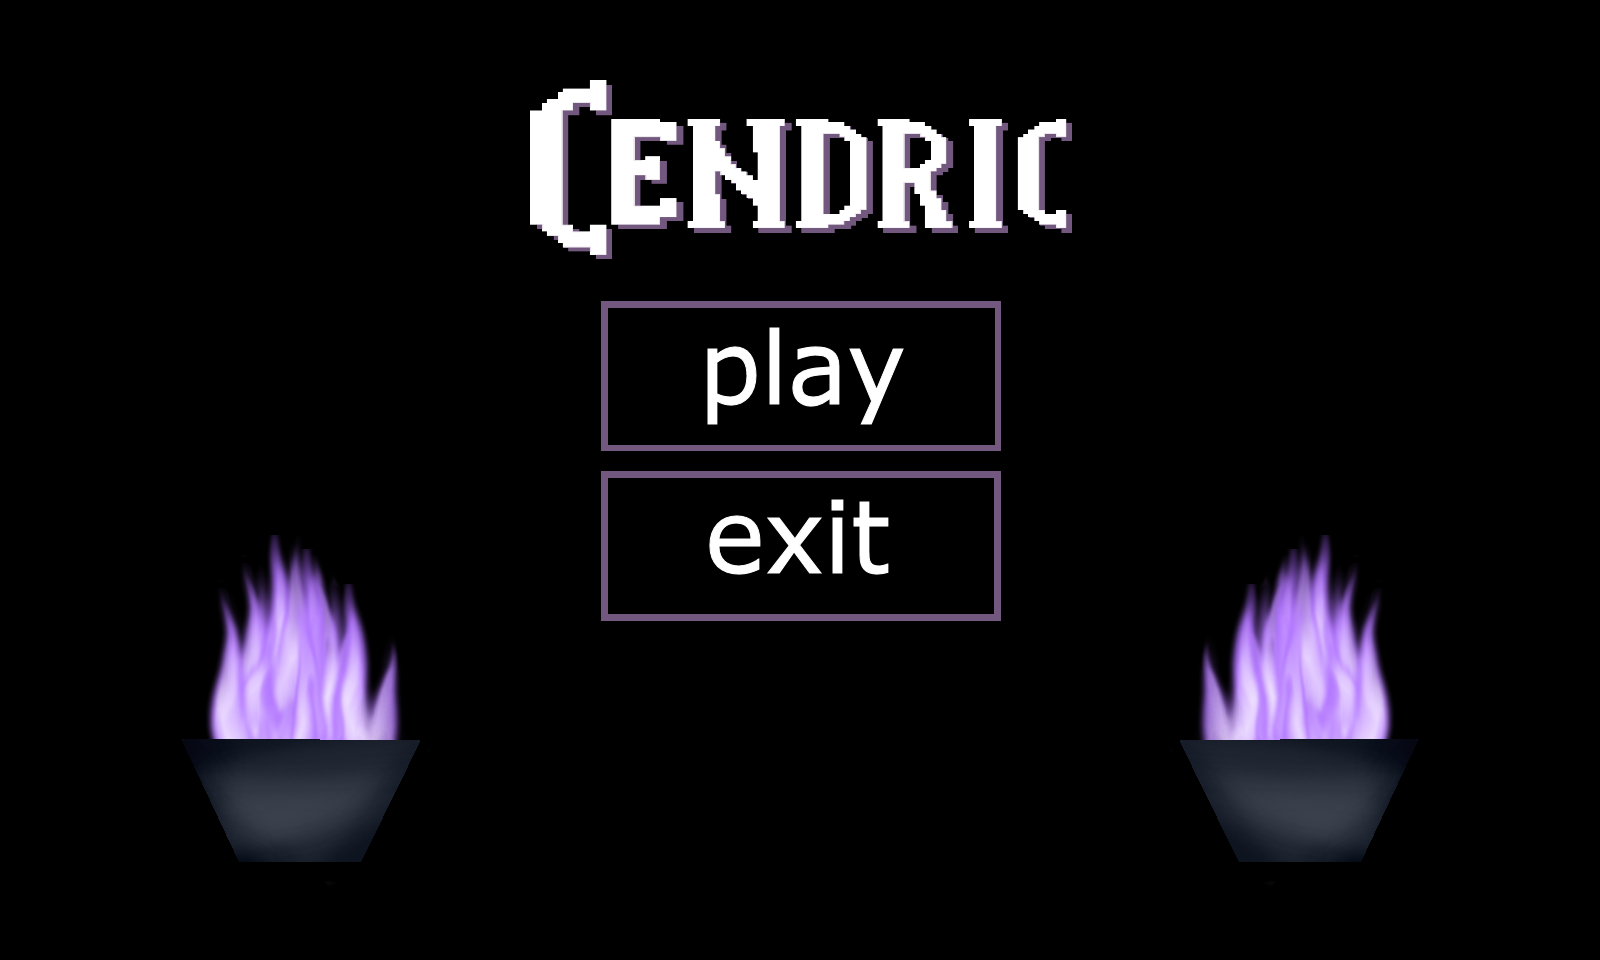
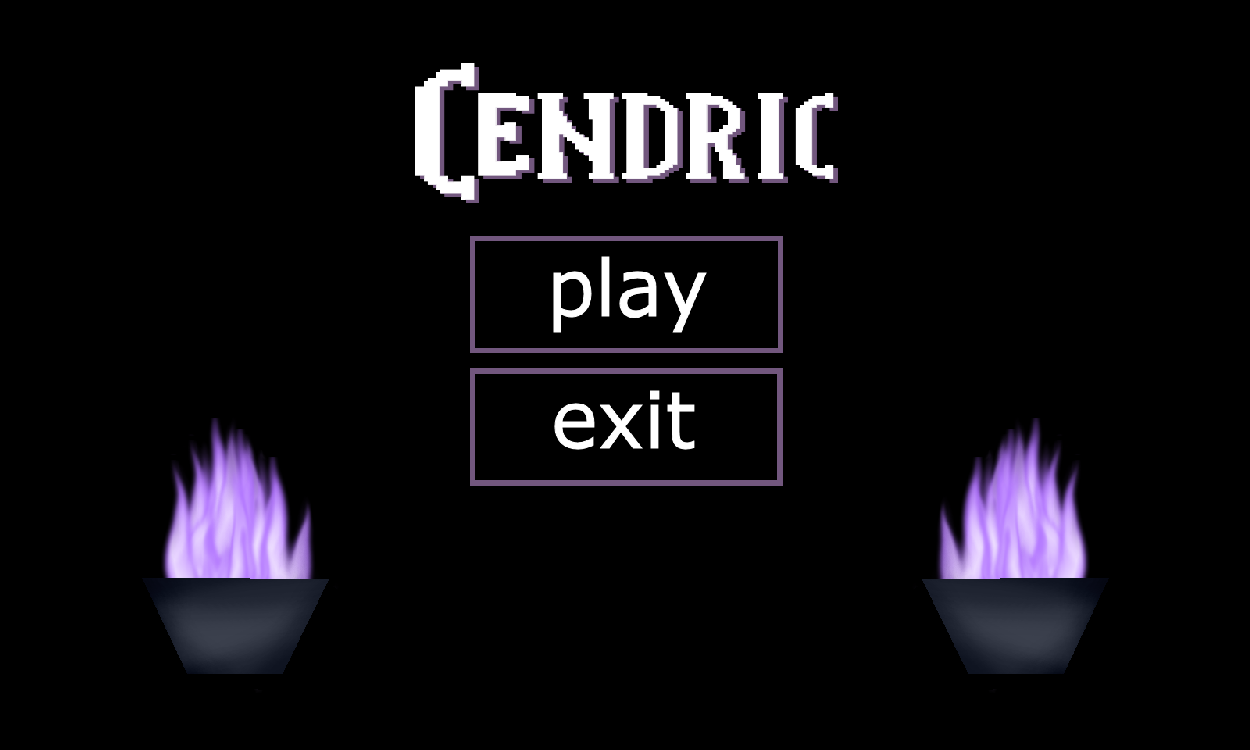
changed tilesize to 50 with testlevel etc. also loaded screen textures from resource manager

diff --git a/src/Screens/MenuScreen.cpp b/src/Screens/MenuScreen.cpp
@@ -3,12 +3,7 @@
 MenuScreen::MenuScreen()
 {
 	cout << "Init MenuScreen...";
-	if (!m_screenTexture.loadFromFile("res/screens/screen_menu.png"))
-	{
-		printf("SplashScreen: Error at opening file res/screens/screen_menu.png \n");
-		// TODO: what to do if resource loading fails in constructor?
-	}
-	m_screenSprite = sf::Sprite(m_screenTexture);
+	m_screenSprite = sf::Sprite(g_resourceManager->getTexture(ResourceID::Texture_menuScreen));
 	cout << "...done." << endl;
 }
 
@@ -24,4 +19,15 @@ Screen* MenuScreen::update(sf::Time frameTime)
 void MenuScreen::render(sf::RenderTarget &renderTarget) const
 {
 	renderTarget.draw(m_screenSprite);
+}
+
+void MenuScreen::onEnter(Screen *previousScreen)
+{
+	cout << "Enter MenuScreen" << endl;
+}
+
+void MenuScreen::onExit(Screen *nextScreen)
+{
+	g_resourceManager->deleteResource(ResourceID::Texture_menuScreen);
+	cout << "Exit MenuScreen" << endl;
 }

diff --git a/src/Screens/SplashScreen.cpp b/src/Screens/SplashScreen.cpp
@@ -3,12 +3,7 @@
 SplashScreen::SplashScreen()
 {
 	cout << "Init SplashScreen...";
-	if (!m_screenTexture.loadFromFile("res/screens/screen_splash.png"))
-	{
-		printf("SplashScreen: Error at opening file res/screens/screen_splash.png \n");
-		// TODO: what to do if resource loading fails in constructor?
-	}
-	m_screenSprite = sf::Sprite(m_screenTexture);
+	m_screenSprite = sf::Sprite(g_resourceManager->getTexture(ResourceID::Texture_splashScreen));
 	cout << "...done." << endl;
 }
 
@@ -34,5 +29,6 @@ void SplashScreen::onEnter(Screen *previousScreen)
 
 void SplashScreen::onExit(Screen *nextScreen)
 {
+	g_resourceManager->deleteResource(ResourceID::Texture_splashScreen);
 	cout << "Exit SplashScreen" << endl;
 }

diff --git a/src/ResourceManager.cpp b/src/ResourceManager.cpp
@@ -16,7 +16,9 @@ void ResourceManager::init()
 	m_fileNames.insert(
 	{
 		{ ResourceID::Level_testLevel, "res/level/testlevel.dric" },
-		{ ResourceID::Texture_mainChar, "res/assets/cendric/cendric_spritesheet.png" }
+		{ ResourceID::Texture_mainChar, "res/assets/cendric/cendric_spritesheet.png" },
+		{ ResourceID::Texture_splashScreen, "res/screens/screen_splash.png" },
+		{ ResourceID::Texture_menuScreen, "res/screens/screen_menu.png" }
 	});
 }
 

diff --git a/include/Screens/MenuScreen.h b/include/Screens/MenuScreen.h
@@ -8,7 +8,9 @@ public:
 	Screen* update(sf::Time frameTime) override;
 	void render(sf::RenderTarget &renderTarget) const override;
 
+	virtual void onEnter(Screen *previousScreen);
+	virtual void onExit(Screen *nextScreen);
+
 private:
-	sf::Texture m_screenTexture;	// TODO: take from resource manager
 	sf::Sprite m_screenSprite;
 };

diff --git a/include/Game.h b/include/Game.h
@@ -1,8 +1,8 @@
 #include "stdafx.h"
 
 // TODO these values should not be const, but loaded from an .ini file.
-#define WINDOW_WIDTH 1600
-#define WINDOW_HEIGHT 960
+#define WINDOW_WIDTH 1250
+#define WINDOW_HEIGHT 750
 #define FRAME_RATE 60
 
 class Game

diff --git a/include/Screens/SplashScreen.h b/include/Screens/SplashScreen.h
@@ -11,7 +11,6 @@ public:
 	virtual void onEnter(Screen *previousScreen);
 	virtual void onExit(Screen *nextScreen);
 
-private:
-	sf::Texture m_screenTexture;	// TODO: take from resource manager
+private:	
 	sf::Sprite m_screenSprite;
 };

diff --git a/include/ResourceManager.h b/include/ResourceManager.h
@@ -3,7 +3,9 @@
 enum class ResourceID
 {
 	Texture_mainChar,
-	Level_testLevel
+	Level_testLevel,
+	Texture_splashScreen,
+	Texture_menuScreen
 };
 
 class ResourceManager
